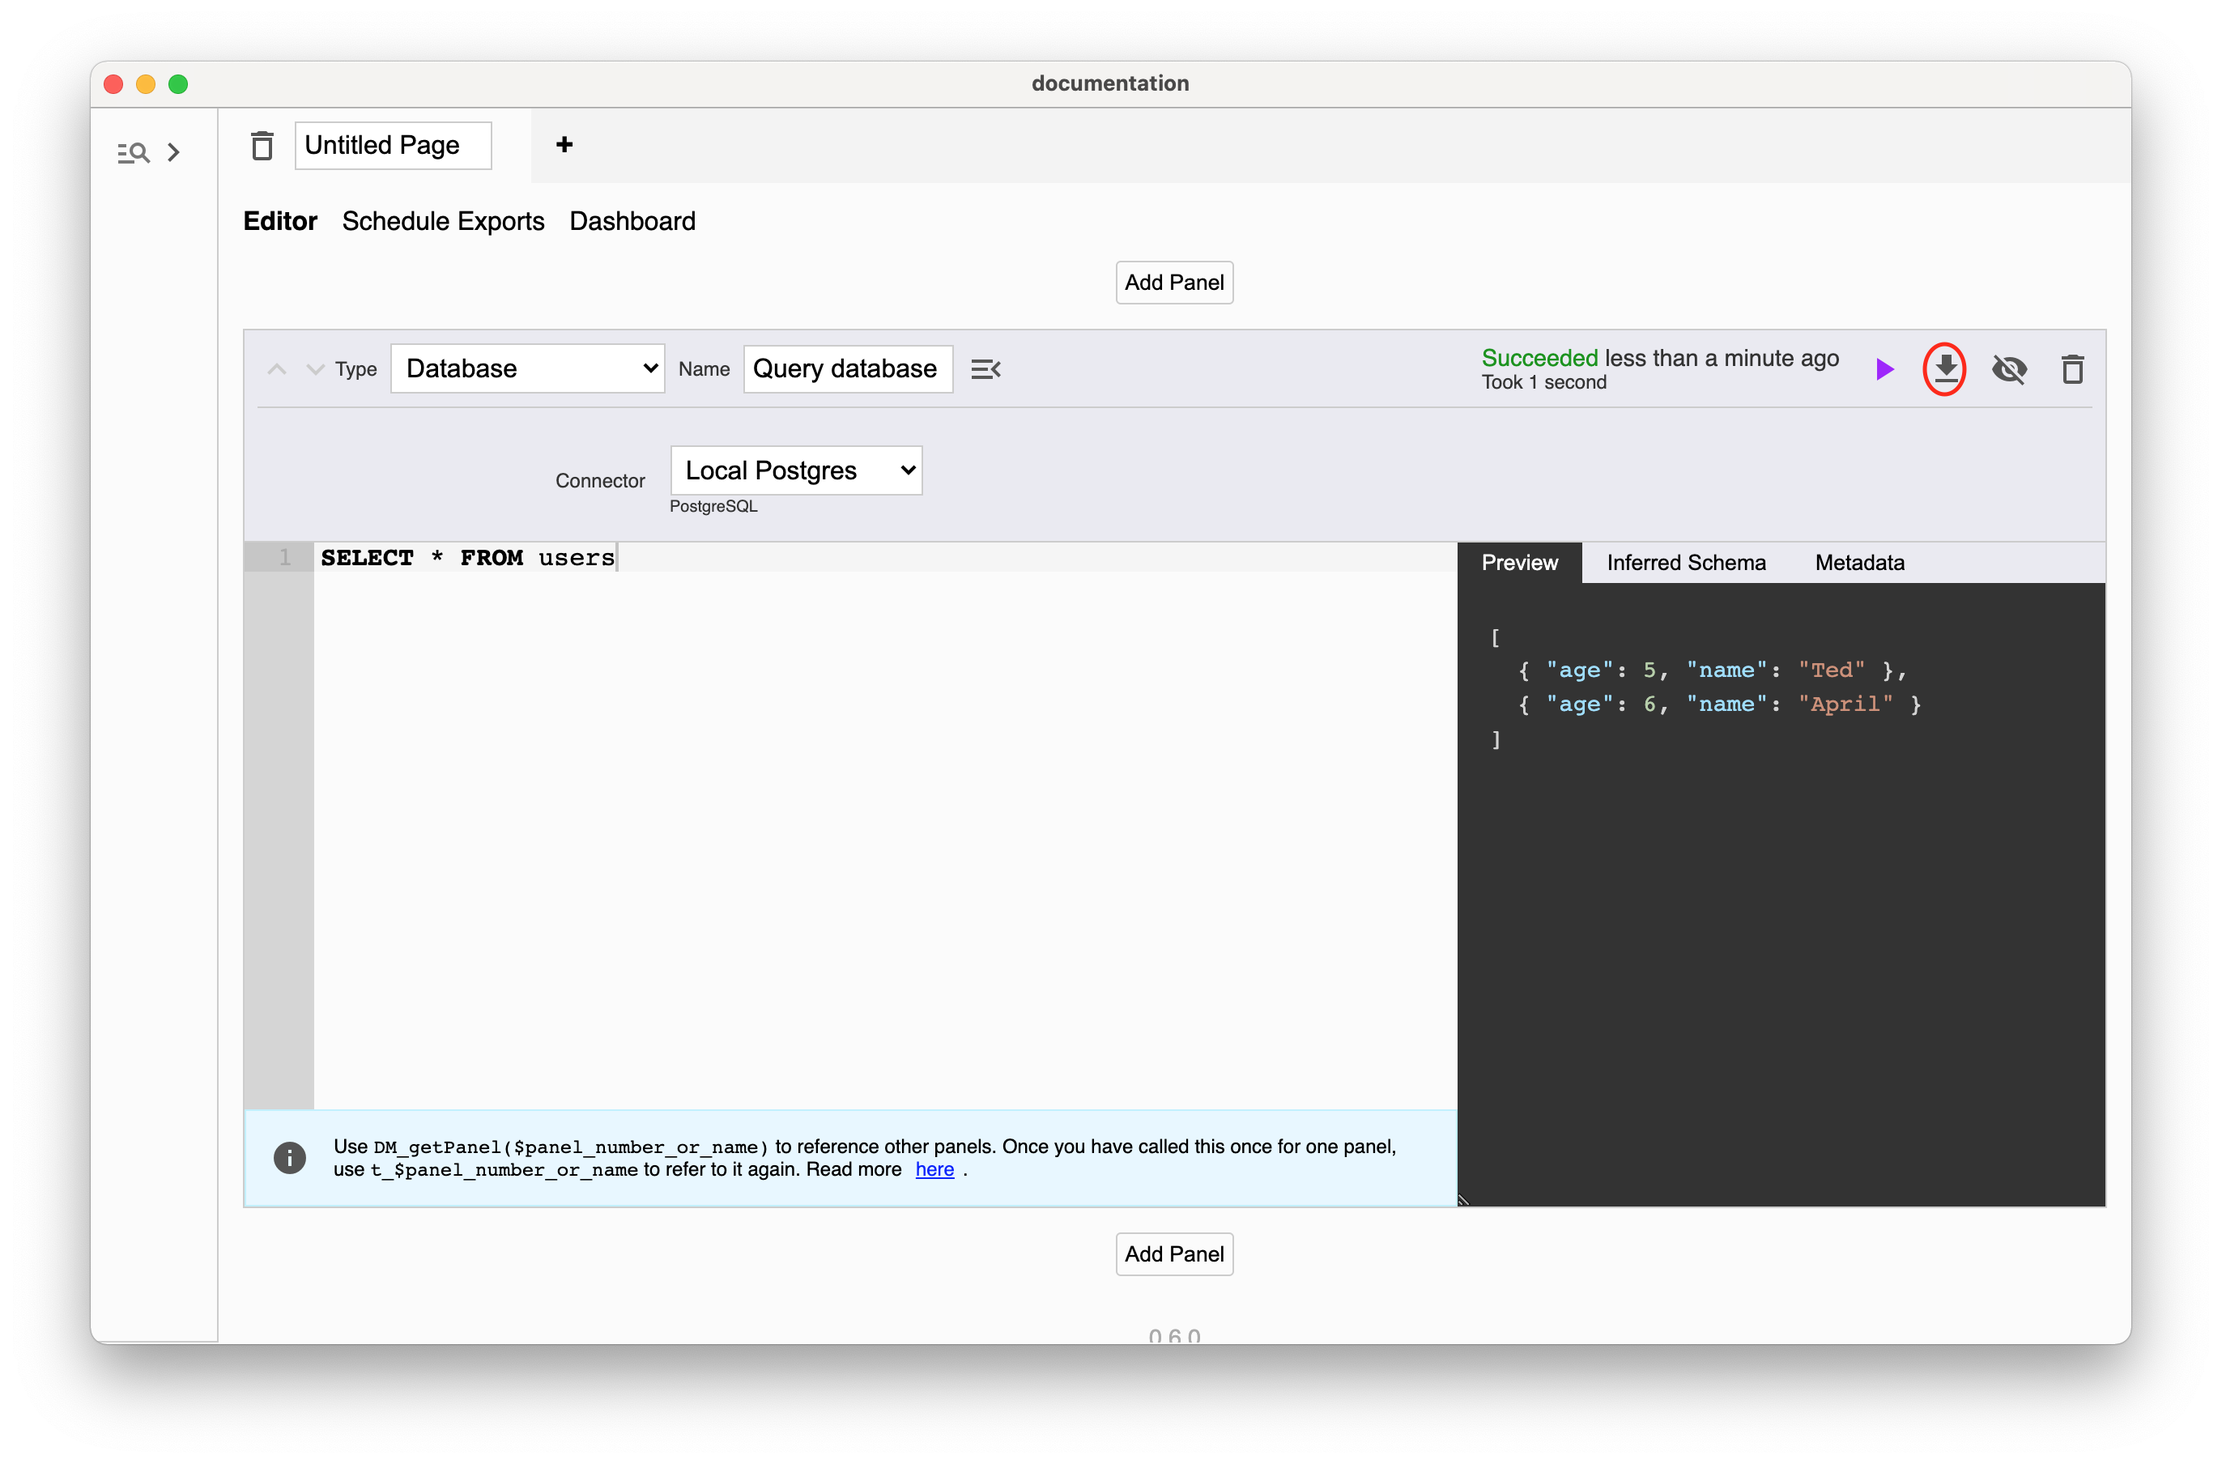
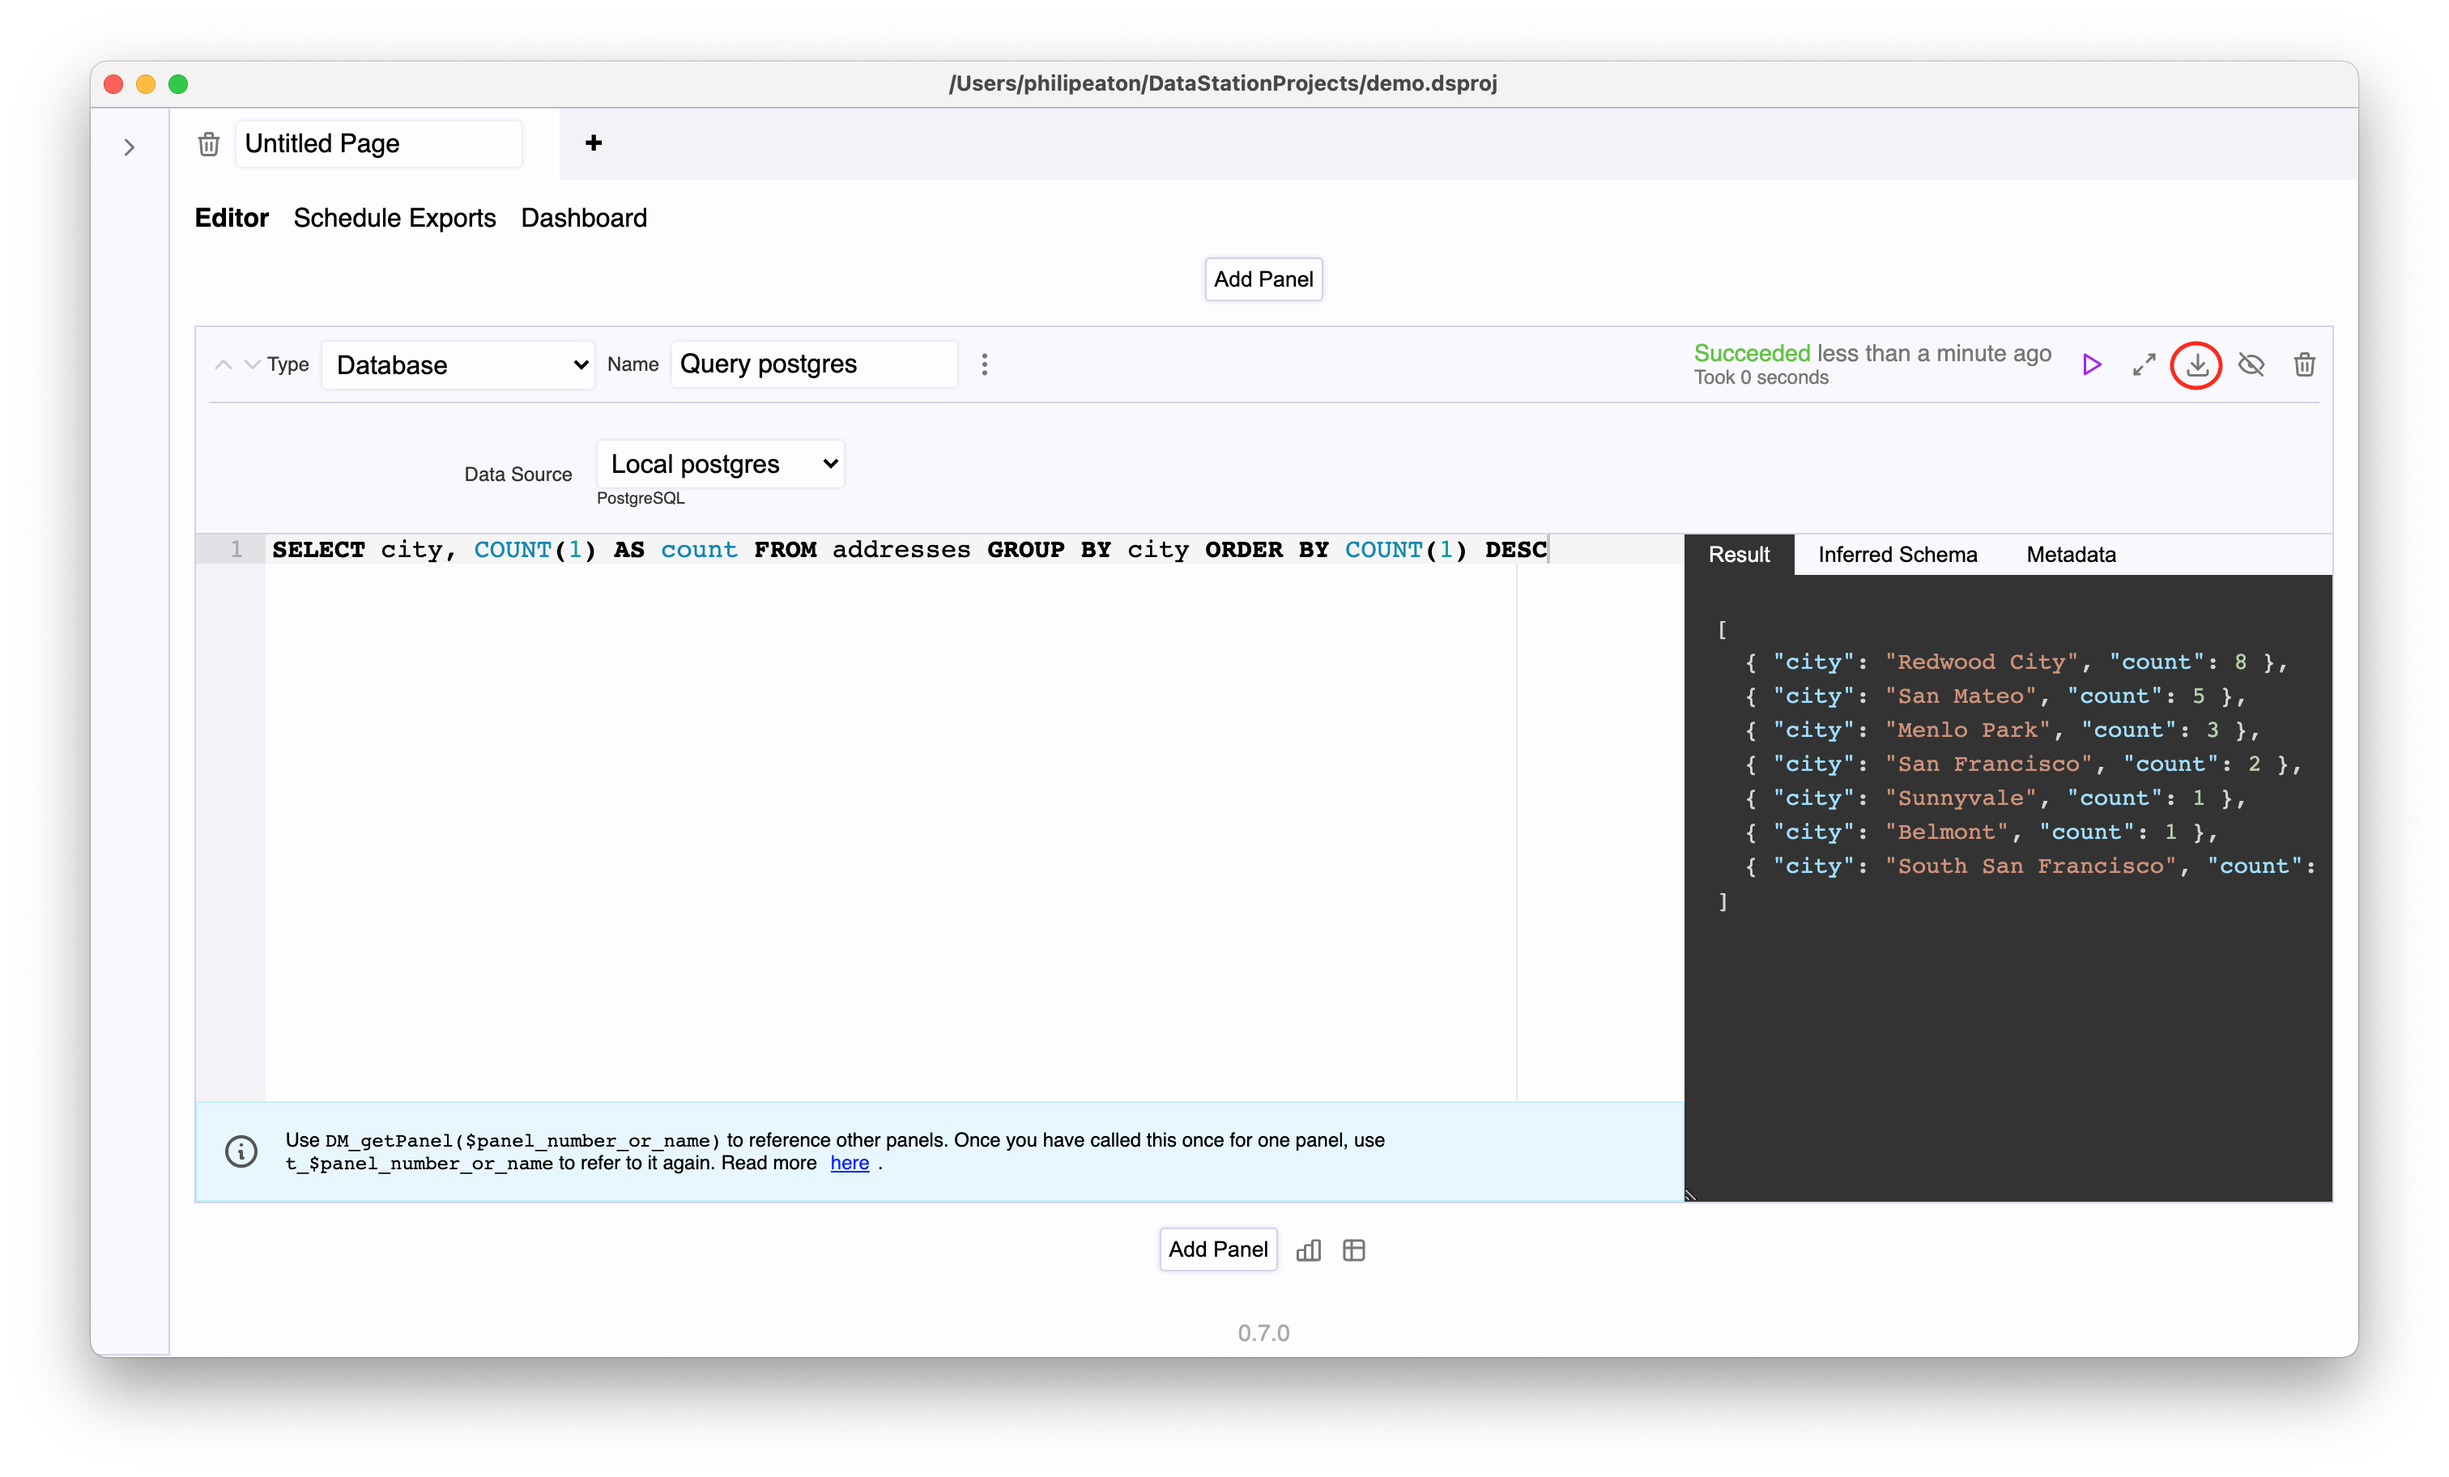
Update postgres tutorial

diff --git a/tutorials/Query_PostgreSQL_with_DataStation.md b/tutorials/Query_PostgreSQL_with_DataStation.md
@@ -1,8 +1,38 @@
 # Query PostgreSQL with DataStation
 
+# Database initialization [Optional]
+
+If you want to follow along with this tutorial literally, in your
+terminal start PostgreSQL in Docker:
+
+```bash
+$ cid=$(docker run -d -p 5432:5432 -e POSTGRES_PASSWORD=postgres postgres)
+```
+
+Now let's create a table for some address data.
+
+```bash
+$ docker exec $cid psql -U postgres -c 'CREATE TABLE addresses (id BIGINT, location_id BIGINT, address_1 TEXT, address_2 TEXT, city TEXT, state_province TEXT, postal_code TEXT, country TEXT);'
+CREATE TABLE
+```
+
+And let's download a [CSV of sample
+addresses](https://raw.githubusercontent.com/codeforamerica/ohana-api/master/data/sample-csv/addresses.csv)
+from Github, copy it into the Docker container, and load the addresses
+into this new table.
+
+```bash
+$ curl -LO https://raw.githubusercontent.com/codeforamerica/ohana-api/master/data/sample-csv/addresses.csv
+$ docker cp ./addresses.csv $cid:/tmp/addresses.csv
+$ docker exec $cid psql -U postgres -c "COPY addresses FROM '/tmp/addresses.csv' DELIMITER ',' CSV HEADER;"
+COPY 21
+```
+
+And we're done!
+
 # Data source setup
 
-First create a new data source in the left sidebar.
+Now inside DataStation create a new data source in the left sidebar.
 
 ![Creating a new data source](/tutorials/create-data-source.gif)
 
@@ -13,7 +43,7 @@ PostgreSQL in the Vendor dropdown.
 
 ## Host field
 
-If you are running the host on localhost:5432 (the default) and you
+If you are running the host on `localhost:5432` (the default) and you
 have SSL set up, you can leave the host field blank.
 
 Additional notes:
@@ -24,9 +54,14 @@ Additional notes:
   `localhost:5432?sslmode=disable`.
 * If the port is 5432 then you can always omit the colon and port
 
+In this case since we are not running with TLS we must specify
+`?sslmode=disable`.
+
 ## Other fields
 
-Next set your database, username, and password.
+Next we set the database to `postgres`, the username to `postgres`,
+and the password to `postgres` (we specified this when we started the
+Docker container).
 
 ![Filled out PostgreSQL data source](/tutorials/postgresql-data-source-filled.png)
 
@@ -54,16 +89,13 @@ button. Or you can reference the results in other panels.
 
 ![Download panel results](/tutorials/download-postgresql-panel-results.png)
 
-# Graph the results
+# Display results
 
-Create a new panel. Change the type to Graph. Select the previous
-Database panel as the panel source. Then select the X and Y columns
-you'd like to graph. Defaults are chosen for you.
+After running the query, a table button will appear below the panel
+next to the New Panel button. Click it to generate a table based on
+this panel.
 
-Finally, click the play button to generate the graph. You can download
-the graph as a PNG by clicking the download button.
+![Render results](/tutorials/graph-postgresql-database-results.gif)
 
-![Graph database results](/tutorials/graph-postgresql-database-results.gif)
-
-Note: Ctrl-r is a shortcut for hitting the play button when you are
-focused on one panel.
+Note: when the query panel changes in the future you'll need to
+manually re-run the table panel.

diff --git a/tutorials/Query_Yugabyte_with_DataStation.md b/tutorials/Query_Yugabyte_with_DataStation.md
@@ -6,7 +6,7 @@ If you want to follow along with this tutorial literally, in your
 terminal start Yugabyte in Docker:
 
 ```bash
-$ cid=$(docker run -p 5433:5433 yugabytedb/yugabyte:latest bin/yugabyted start --daemon=false)
+$ cid=$(docker run -d -p 5433:5433 yugabytedb/yugabyte:latest bin/yugabyted start)
 ```
 
 Yugabyte comes with some great sample data and a [great
